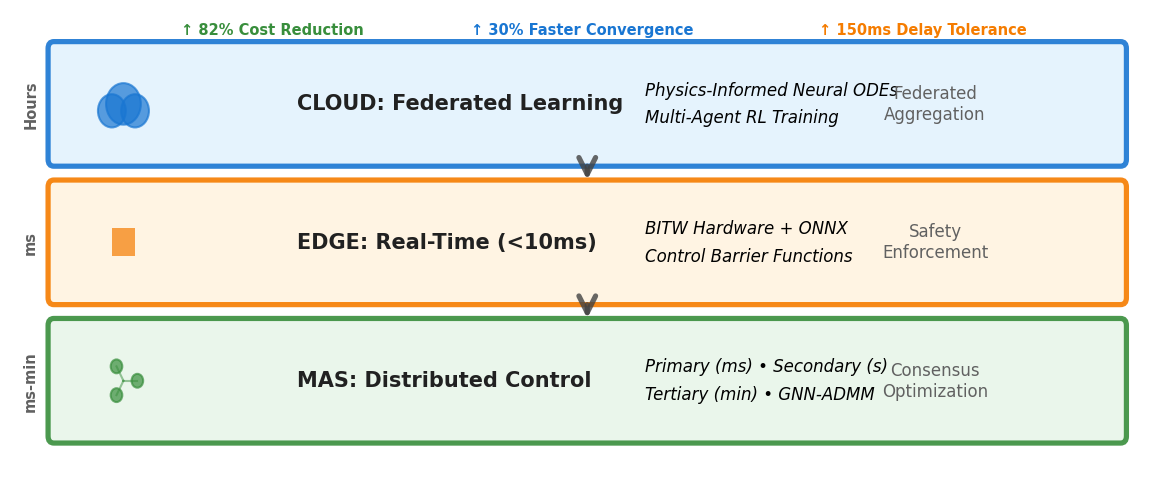
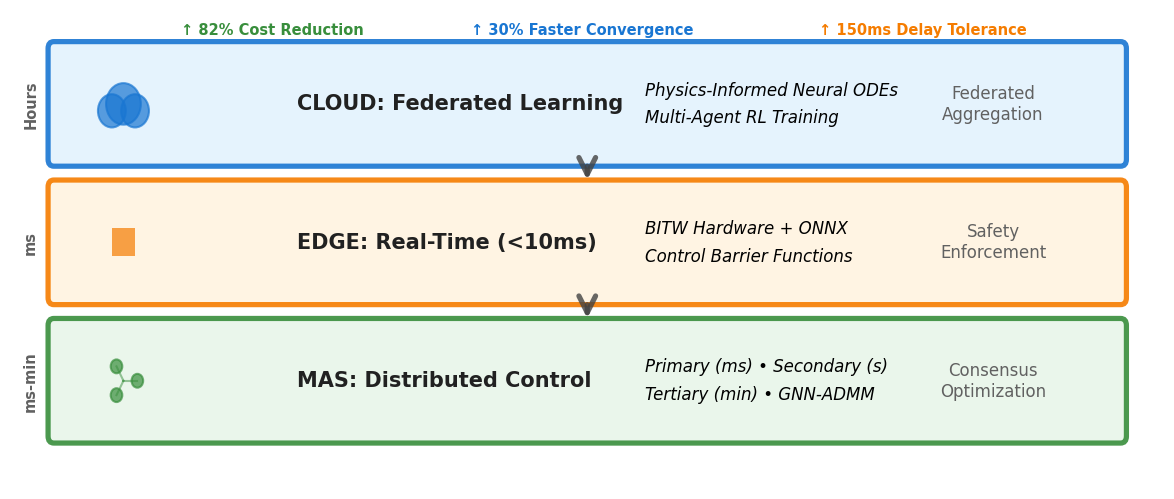
Update main_CISE.pdf - 2025-08-15 15:32:56

Changed region(s): [[0.7359, 0.7214, 0.8893, 0.8116], [0.7359, 0.4509, 0.8893, 0.5411], [0.7359, 0.1804, 0.8893, 0.2405]]

diff --git a/generate_figure3_improved.py b/generate_figure3_improved.py
@@ -76,7 +76,7 @@ def create_improved_figure3():
             'Multi-Agent RL Training', 
             fontsize=8, va='center', style='italic')
     
-    ax.text(8.0, layer_y_positions[0] + layer_height/2, 
+    ax.text(8.5, layer_y_positions[0] + layer_height/2, 
             'Federated\nAggregation', 
             fontsize=8, va='center', ha='center', color=colors['text_light'])
     
@@ -108,7 +108,7 @@ def create_improved_figure3():
             'Control Barrier Functions', 
             fontsize=8, va='center', style='italic')
     
-    ax.text(8.0, layer_y_positions[1] + layer_height/2, 
+    ax.text(8.5, layer_y_positions[1] + layer_height/2, 
             'Safety\nEnforcement', 
             fontsize=8, va='center', ha='center', color=colors['text_light'])
     
@@ -145,7 +145,7 @@ def create_improved_figure3():
             'Tertiary (min) • GNN-ADMM', 
             fontsize=8, va='center', style='italic')
     
-    ax.text(8.0, layer_y_positions[2] + layer_height/2, 
+    ax.text(8.5, layer_y_positions[2] + layer_height/2, 
             'Consensus\nOptimization', 
             fontsize=8, va='center', ha='center', color=colors['text_light'])
     
